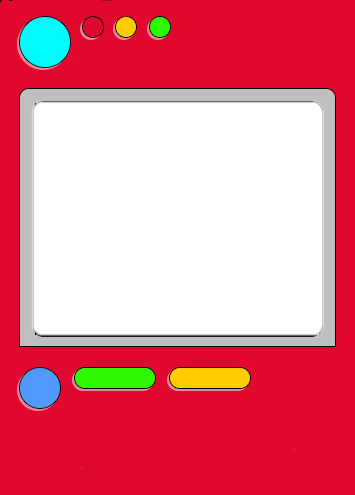
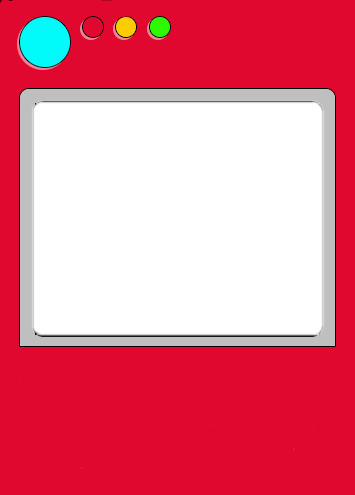
Pokedex-Props

Changed region(s): [[0.031, 0.7273, 0.4338, 0.8485], [0.4648, 0.7273, 0.7127, 0.7879]]

diff --git a/viewsNavigate/Home.jsx b/viewsNavigate/Home.jsx
@@ -1,44 +1,13 @@
-import React, {useEffect, useState} from 'react';
-import {Text, View, SafeAreaView, Image, TextInput, Button, KeyboardAvoidingView  } from 'react-native';
+import React, {useState} from 'react';
+import {View, SafeAreaView, Image, TextInput, Button, KeyboardAvoidingView  } from 'react-native';
 import globalStyles from '../styles/global';
-import axios from 'axios';
+import PokemonAPI from '../API/PokemonAPI'
 
 const Home =({navigation})=> {
   
   const text="";
-  const [pokemonRes, setPokemonRes] = useState([]);
   const [pokemon, setPokemon]= useState("");
-  const [pokemonType, setPokemonType] = useState("");
-  const [pokemonName, setPokemonName] = useState("");
-  const [pokemonAbility, setPokemonAbility] = useState("");
-  const [pokemonInfo, setPokemonInfo] = useState("");
-  const [pokeIdImg, setPokeIdImg] = useState("");
-  
 
-const getPokemon = async () => {
-  try {
-    const url = `https://pokeapi.co/api/v2/pokemon/${pokemon.toLowerCase()}`;
-    const res = await axios.get(url);
-    let abilities = [res.data.abilities[0].ability.name, res.data.abilities[1].ability.name];
-    let pokeInfo = [res.data.weight, res.data.height];
-    let idImg = res.data.forms[0].url.split("/");
-
-    setPokemonRes(res.data)
-    setPokemonType(res.data.types[0].type.name);
-    setPokemonName(res.data.forms[0].name);   
-    setPokemonAbility(abilities);
-    setPokemonInfo(pokeInfo);
-    setPokeIdImg(idImg[6])
-  } catch (e) {
-    console.log(e);
-    alert("El nombre del pokemon no está bien escrito o no se encuentra en la base de datos de pokedex")
-  }
-  
-};
-
-const imageUrl = 'https://pokeres.bastionbot.org/images/pokemon/'+ pokeIdImg +'.png';
-
-  
   return (
     
     <SafeAreaView style={globalStyles.container}>
@@ -47,37 +16,22 @@ const imageUrl = 'https://pokeres.bastionbot.org/images/pokemon/'+ pokeIdImg +'.
         source={require('../images/pokedex.png')}
         style={globalStyles.backgroundImage}>
       </Image>
-      <Image style ={globalStyles.image} source={{uri: imageUrl}}/>
 
-     <Text style={globalStyles.text}> 
-     {pokemonAbility ?
-      (<View >
-        <Text>{pokemonName.charAt(0).toUpperCase()+ pokemonName.slice(1)}</Text>
-        <Text>Type: {pokemonType}</Text>
-        <Text>Abilities 1: {pokemonAbility[0]}</Text>
-        <Text>Abilities 2: {pokemonAbility[1]}</Text>
-        <Text>Weight: {pokemonInfo[0]}</Text>
-        <Text>Height: {pokemonInfo[1]}</Text>
-      </View> ):''
-      } </Text>
-      
+      <PokemonAPI name={pokemon}/>
+
       <TextInput
         style={globalStyles.input}
         placeholder="Gotta catch 'em all!"
         onChangeText={text => setPokemon(text)}
         defaultValue={text}
       />
-
-      <Button
-        onPress={getPokemon}
-        title="Search"
-      />
       <View style={globalStyles.space} />
       <Button
         onPress={() => navigation.navigate('Tap')}
-        title="Put de cover"
+        title="Press here to put the cover"
+        color='#e0082f'
       />
-
+      
       </KeyboardAvoidingView>
     </SafeAreaView>
   );

diff --git a/API/PokemonAPI.jsx b/API/PokemonAPI.jsx
@@ -1,0 +1,68 @@
+import React, {useState} from 'react';
+import {Text, View, Image, Button } from 'react-native';
+import globalStyles from '../styles/global'
+import axios from 'axios';
+
+const Pokemon = (props) => {
+  const [pokemonType, setPokemonType] = useState("");
+  const [pokemonName, setPokemonName] = useState("");
+  const [pokemonAbility, setPokemonAbility] = useState("");
+  const [pokemonInfo, setPokemonInfo] = useState("");
+  const [pokeIdImg, setPokeIdImg] = useState("");
+  
+
+const getPokemon = async () => {
+  try {
+    const url = `https://pokeapi.co/api/v2/pokemon/${props.name.toLowerCase()}`;
+    const res = await axios.get(url);
+    let abilities = [res.data.abilities[0].ability.name, res.data.abilities[1].ability.name];
+    let pokeInfo = [res.data.weight, res.data.height];
+    let idImg = res.data.forms[0].url.split("/");
+
+    setPokemonType(res.data.types[0].type.name);
+    setPokemonName(res.data.forms[0].name);   
+    setPokemonAbility(abilities);
+    setPokemonInfo(pokeInfo);
+    setPokeIdImg(idImg[6])
+  } catch (e) {
+    console.log(e);
+    alert("The name of the pokemon is not spelled correctly or it is not in the pokedex database")
+  }
+  
+};
+
+const imageUrl = 'https://pokeres.bastionbot.org/images/pokemon/'+ pokeIdImg +'.png';
+
+
+    return ( 
+        
+    
+            <View >
+              <Image style ={globalStyles.image} source={{uri: imageUrl}}/>
+
+              <Text style={globalStyles.text}> 
+                {pokemonAbility ?
+                (<View >
+                  <Text>{pokemonName.charAt(0).toUpperCase()+ pokemonName.slice(1)}</Text>
+                  <Text>Type: {pokemonType}</Text>
+                  <Text>Abilities 1: {pokemonAbility[0]}</Text>
+                  <Text>Abilities 2: {pokemonAbility[1]}</Text>
+                  <Text>Weight: {pokemonInfo[0]}</Text>
+                  <Text>Height: {pokemonInfo[1]}</Text>
+                </View> ):''
+              } 
+              </Text>
+              
+              <Button
+                onPress={getPokemon}
+                title="Search"
+                color='#01fbfb'
+              />
+       
+
+            </View>
+         
+     );
+}
+ 
+export default Pokemon;

diff --git a/styles/global.js b/styles/global.js
@@ -20,7 +20,6 @@ const globalStyles = StyleSheet.create({
       borderColor: 'black',
       borderWidth: 1,
       textAlign: 'center',
-      marginTop:100,
       
     },
     space: {
@@ -31,17 +30,18 @@ const globalStyles = StyleSheet.create({
       width: 140,
       height: 140,
       left: 15,
-      marginTop: 150,
+      marginTop: 50,
   },
     backgroundImage:{
       position: 'absolute',
-      top: -11,
+      top: -100,
       backgroundColor: "#841584", 
     },
     text: {
-      top: -150,
+      top: -120,
       left: 170,
+      marginBottom: 50,
     }
 })
 
-export default globalStyles;
+  export default globalStyles;

diff --git a/viewsNavigate/Tap.jsx b/viewsNavigate/Tap.jsx
@@ -14,7 +14,9 @@ const Tap = ({navigation}) => {
           />
           <Button 
             onPress={() => navigation.navigate('Home')}
-            title="Open Pokedex"/>
+            title="Press here to open Pokedex"
+            color='#e0082f'
+          />
           
         </SafeAreaView>
      );
